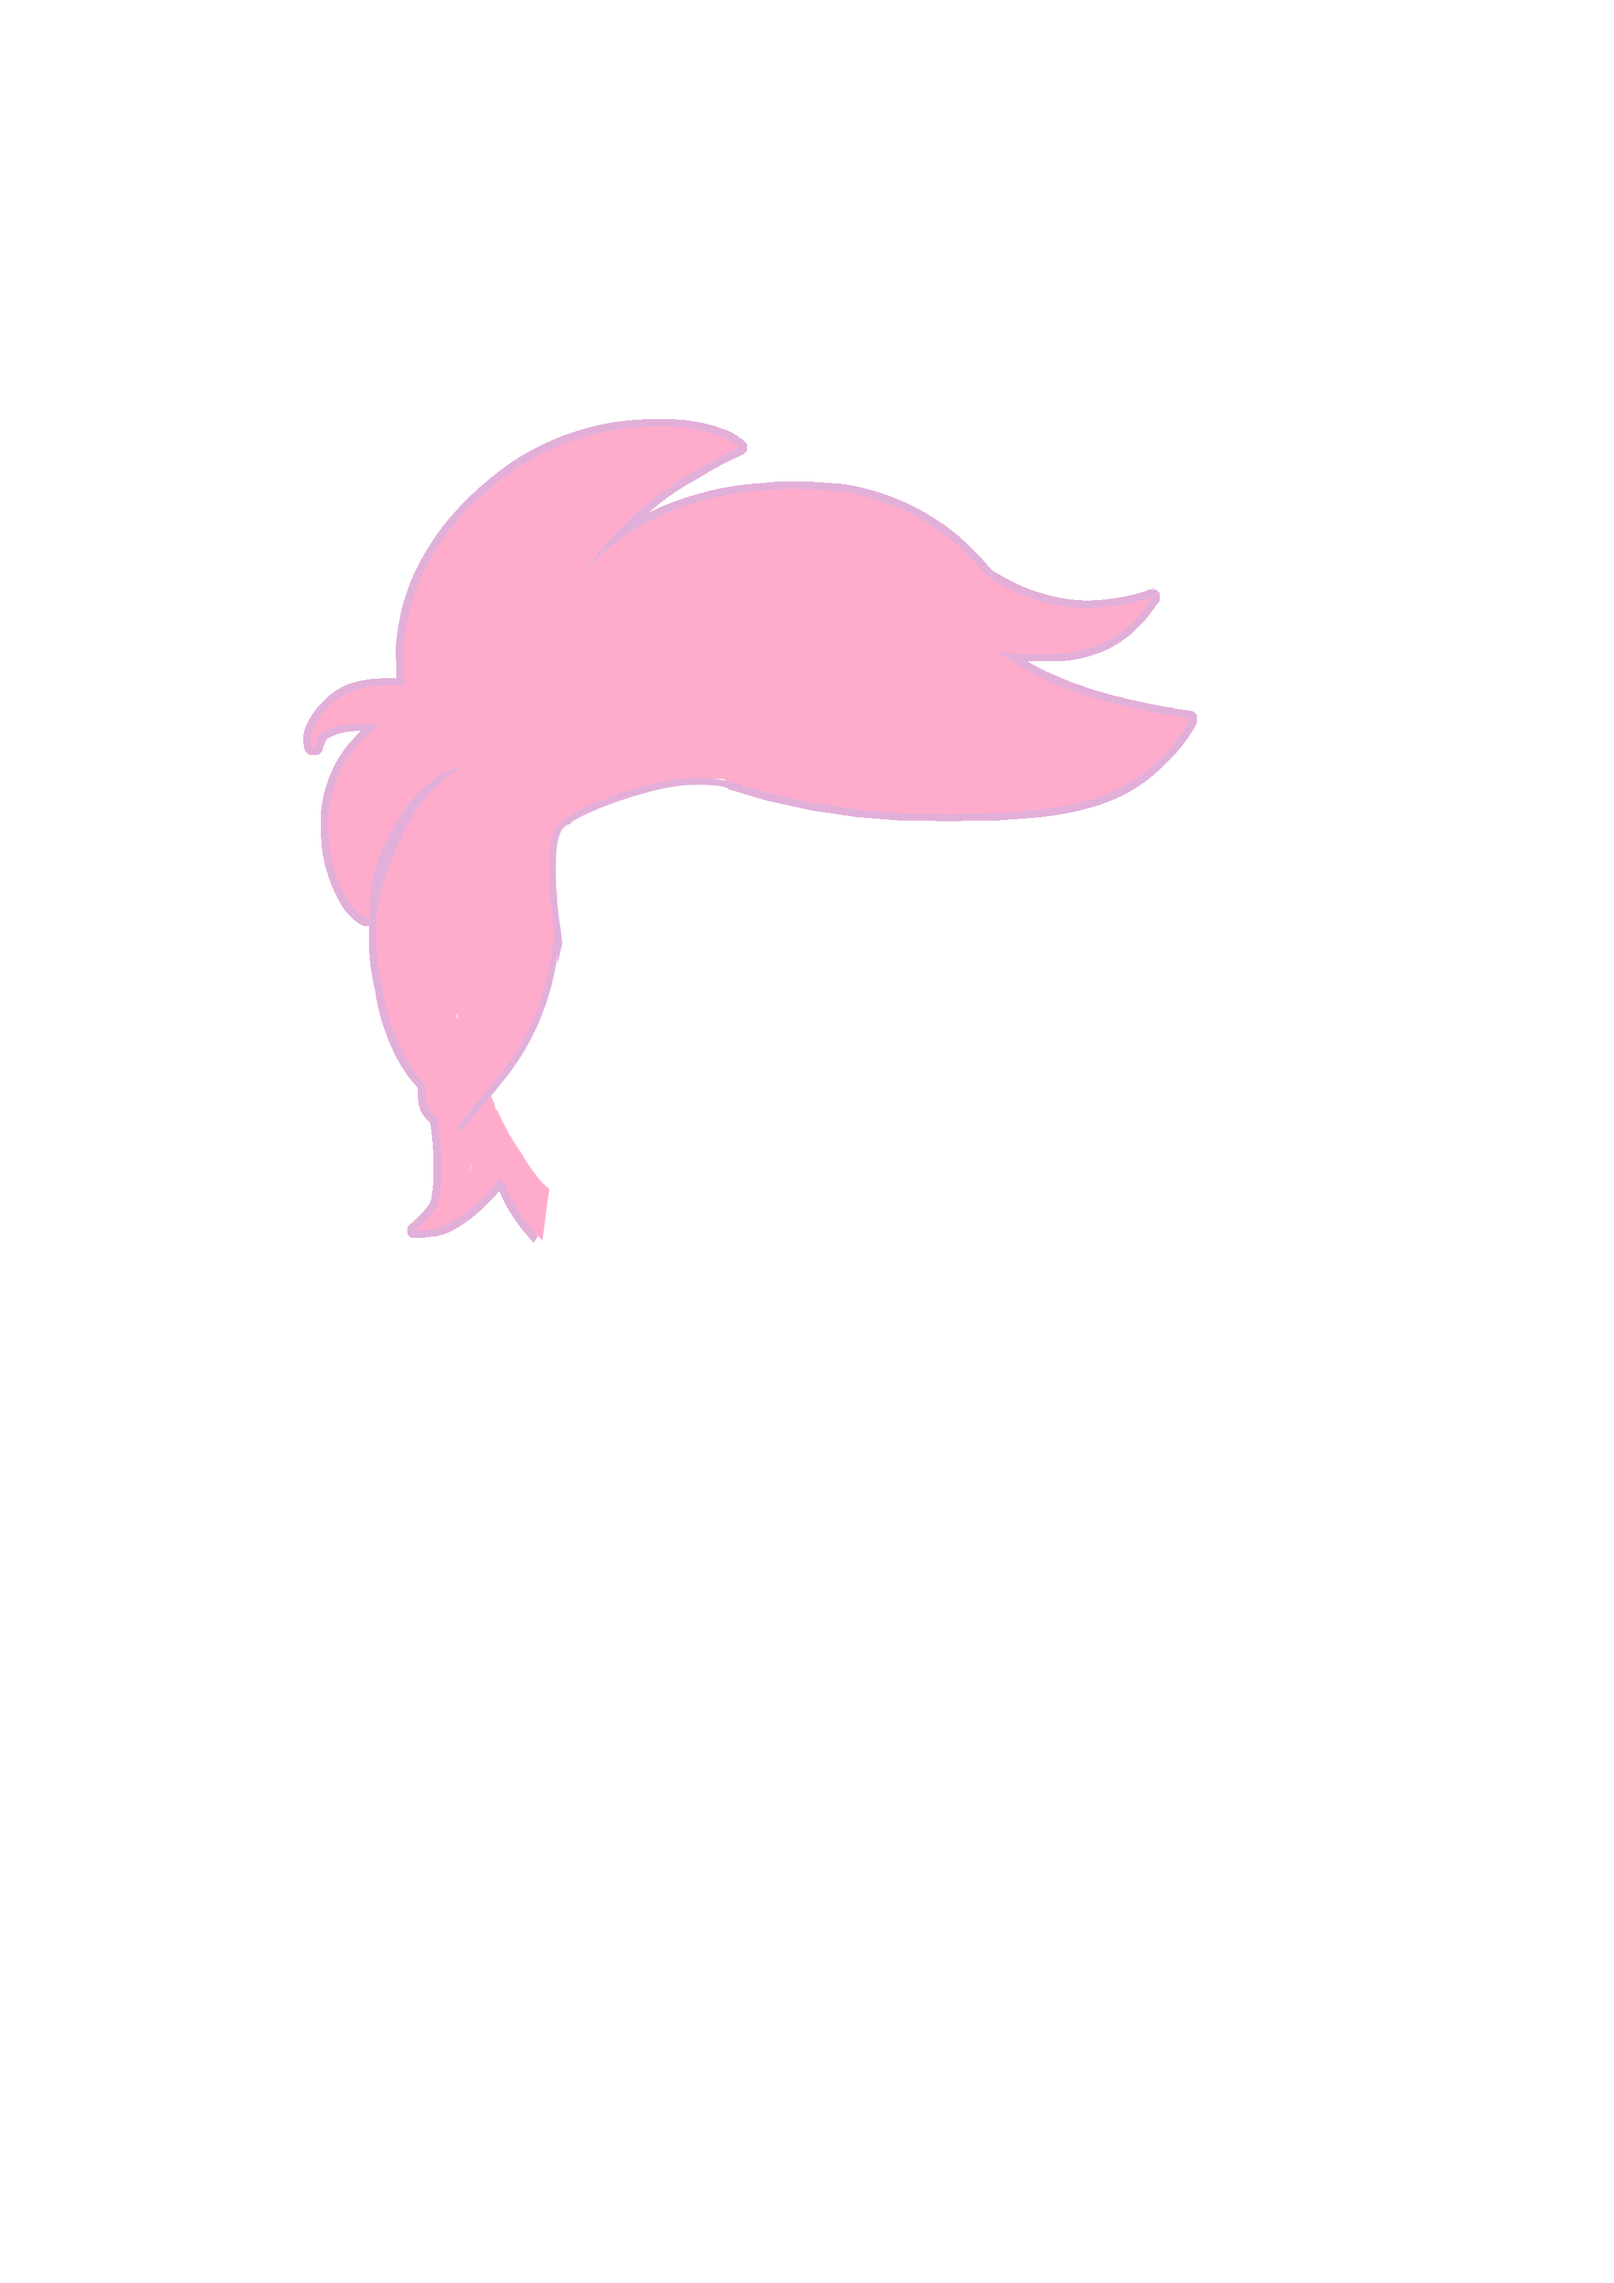
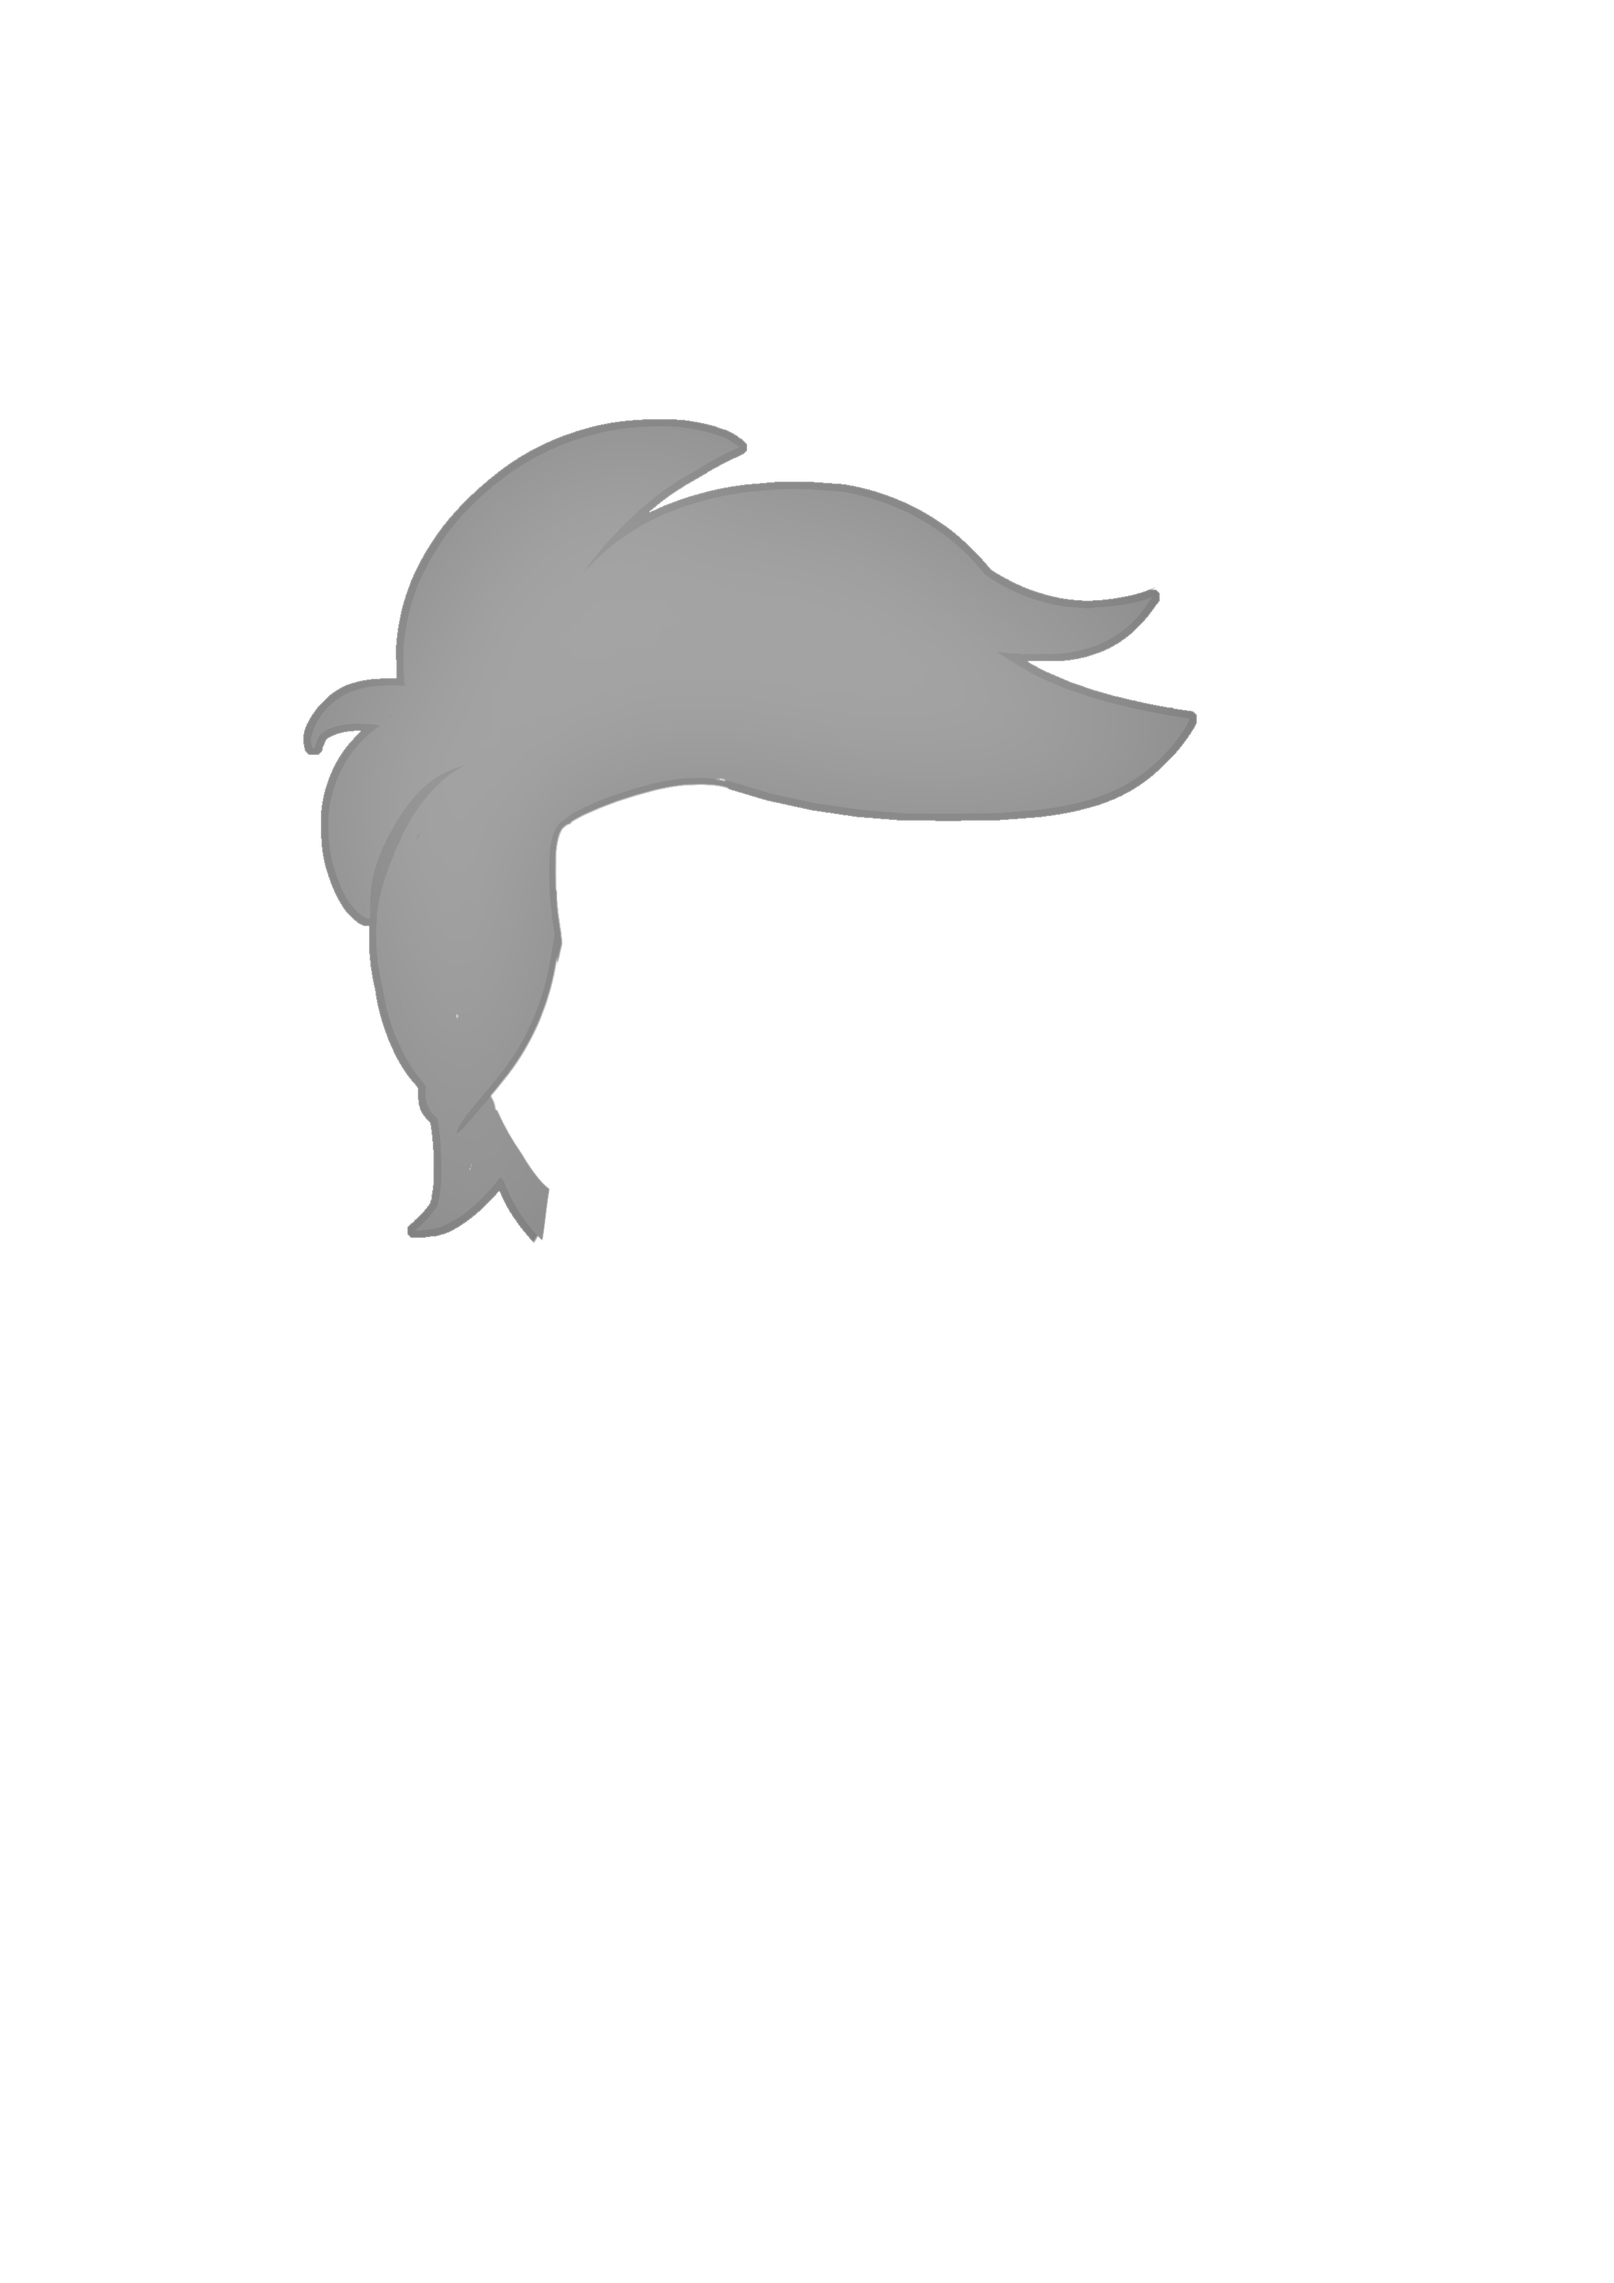
Character random colour generation

Changed region(s): [[0.1863, 0.1864, 0.7452, 0.5593]]

diff --git a/One Way Wellington/Assets/Models/Characters/Passenger.cs b/One Way Wellington/Assets/Models/Characters/Passenger.cs
@@ -12,13 +12,15 @@ public class Passenger : Character
     protected int fare;
 
     // Appearance 
-    protected int hair;
+    protected int hairStyle;
+    protected Color hairColor;
     public SpriteRenderer spriteRenderer_Hair;
 
     protected int skin;
     public SpriteRenderer spriteRenderer_Skin;
 
-    protected int pants;
+    protected int pantStyle;
+    protected Color pantColor;
     public SpriteRenderer spriteRenderer_Pants;
 
     protected int decal;
@@ -27,10 +29,11 @@ public class Passenger : Character
     protected int shades;
     public SpriteRenderer spriteRenderer_Shades;
 
-    protected int shirt;
+    protected int shirtStyle;
+    protected Color shirtColor;
     public SpriteRenderer spriteRenderer_Shirt;
 
-    protected int shoes;
+    protected int shoeStyle;
     public SpriteRenderer spriteRenderer_Shoes;
 
 
@@ -84,28 +87,40 @@ public class Passenger : Character
 
     }
 
-    public void SetPassengerInformation(string name, string occupation, string homePlanet, int fare, int hair, int skin, int decal, int shirt, int pants, int shoes, int shades)
+    public void SetPassengerInformation(string name, string occupation, string homePlanet, int fare, 
+        int hairStyle, Color hairColor, 
+        int skin, int decal, 
+        int shirtStyle, Color shirtColor, 
+        int pantStyle, Color pantColor, 
+        int shoeStyle, int shades)
     {
         this.name = name;
         this.occupation = occupation;
         this.homePlanet = homePlanet;
         this.fare = fare;
-        this.hair = hair;
+        this.hairStyle = hairStyle;
+        this.hairColor = hairColor;
         this.skin = skin;
         this.decal = decal;
-        this.shirt = shirt;
-        this.pants = pants;
-        this.shoes = shoes;
+        this.shirtStyle = shirtStyle;
+        this.shirtColor = shirtColor;
+        this.shirtColor = shirtColor;
+        this.pantStyle = pantStyle;
+        this.pantColor = pantColor;
+        this.shoeStyle = shoeStyle;
         this.shades = shades;
 
 
         // Load sprite resources 
-        spriteRenderer_Hair.sprite = Resources.Load<Sprite>("Images/Characters/Passengers/Hair/Hair" + hair.ToString());
+        spriteRenderer_Hair.sprite = Resources.Load<Sprite>("Images/Characters/Passengers/Hair/Hair" + hairStyle.ToString());
+        spriteRenderer_Hair.color = hairColor;
         spriteRenderer_Skin.sprite = Resources.Load<Sprite>("Images/Characters/Passengers/Skin/Skin" + skin.ToString());
         spriteRenderer_Decal.sprite = Resources.Load<Sprite>("Images/Characters/Passengers/Decal/Decal" + decal.ToString());
-        spriteRenderer_Shirt.sprite = Resources.Load<Sprite>("Images/Characters/Passengers/Shirt/Shirt" + shirt.ToString());
-        spriteRenderer_Pants.sprite = Resources.Load<Sprite>("Images/Characters/Passengers/Pants/Pants" + pants.ToString());
-        spriteRenderer_Shoes.sprite = Resources.Load<Sprite>("Images/Characters/Passengers/Shoes/Shoes" + shoes.ToString());
+        spriteRenderer_Shirt.sprite = Resources.Load<Sprite>("Images/Characters/Passengers/Shirt/Shirt" + shirtStyle.ToString());
+        spriteRenderer_Shirt.color = shirtColor;
+        spriteRenderer_Pants.sprite = Resources.Load<Sprite>("Images/Characters/Passengers/Pants/Pants" + pantStyle.ToString());
+        spriteRenderer_Pants.color = pantColor;
+        spriteRenderer_Shoes.sprite = Resources.Load<Sprite>("Images/Characters/Passengers/Shoes/Shoes" + shoeStyle.ToString());
         spriteRenderer_Shades.sprite = Resources.Load<Sprite>("Images/Characters/Passengers/Shades/Shades" + shades.ToString());
     }
 

diff --git a/One Way Wellington/Assets/Models/PotentialPassenger.cs b/One Way Wellington/Assets/Models/PotentialPassenger.cs
@@ -11,13 +11,37 @@ public class PotentialPassenger
     private string passengerLastName;
     private string occupation;
 
-    public int hair;
+    public int hairStyle;
+    public Color hairColor;
     public int skin;
-    public int pants;
+    public int pantStyle;
+    public Color pantColor;
     public int decal;
     public int shades;
-    public int shirt;
-    public int shoes;
+    public int shirtStyle;
+    public Color shirtColor;
+    public int shoeStyle;
+
+    private List<Color> hairColors = new List<Color>()
+    {
+        new Color(0.847f, 0.753f, 0.470f), new Color(0.89f, 0.8f,0.533f), new Color(0.949f,0.854f, 0.569f), new Color(0.949f, 0.882f, 0.682f), new Color(0.949f, 0.906f, 0.78f),
+        new Color(0.4f, 0.31f, 0.235f),new Color(0.549f,0.408f,0.29f ),new Color(0.2f, 0.165f, 0.1333f),
+        new Color(0.26f,0.14f,0.60f),new Color(0,0.53f, 0.81f),new Color(0.74f,0.13f,0.58f),new Color(0.96f,0.82f,0.08f),new Color(0.25f,0.64f,0.22f), new Color(0.92f,0.58f,0.12f),new Color(0.87f, 0.87f, 0.87f),
+        new Color(1,0.97f,0.78f),new Color(0.61f,0.58f,0.39f),new Color(),new Color(1,0.91f,0.78f),new Color(0.31f,0.27f,0.21f),
+        new Color(1,1,1), new Color(0.87f, 0.87f, 0.87f), new Color(0.5f,0.5f,0.5f), new Color(0.14f, 0.14f, 0.14f), new Color(0, 0, 0)
+    };
+    private List<Color> pantColors = new List<Color>() { Color.white };
+    private List<Color> shirtColors = new List<Color>
+    {
+        new Color(0.26f,0.14f,0.60f), new Color(0.42f,0.30f,0.78f), new Color(0.16f,0.03f,0.54f), new Color(0.08f,0.01f,0.27f),
+        new Color(0,0.53f, 0.81f), new Color(0.69f,0.89f,1), new Color(0.23f,0.73f,1), new Color(0,0.36f,0.55f), new Color(0,0.14f,0.21f),
+        new Color(0.74f,0.13f,0.58f), new Color(0.87f,0.11f,0.73f), new Color(0.46f,0,0.35f),new Color(0.23f,0,0.17f),
+        new Color(0.96f,0.82f,0.08f), new Color(1,0.89f,0.32f), new Color(0.74f,0.62f,0),
+        new Color(0.25f,0.64f,0.22f), new Color(0.68f,0.96f,0.67f), new Color(0.43f,0.79f,0.40f), new Color(0.05f,0.49f,0.01f), new Color(0.09f,0.31f,0.06f),
+        new Color(0.92f,0.58f,0.12f), new Color(1,0.69f,0.28f), new Color(0.74f,0.42f,0),
+        new Color(0.87f, 0.87f, 0.87f), new Color(0.5f,0.5f,0.5f), new Color(0.14f, 0.14f, 0.14f)
+    };
+
 
     // TODO: Reference to sprites used for passenger preview  
 
@@ -28,13 +52,16 @@ public class PotentialPassenger
         this.occupation = occupation;
 
         // Random generate appearance 
-        hair = Random.Range(0, 9);
+        hairStyle = Random.Range(0, 9);
+        hairColor = hairColors[Random.Range(0, hairColors.Count)];
         skin = Random.Range(1, 7);
-        pants = Random.Range(1, 2);
-        decal = Random.Range(0, 4);
-        shades = Random.Range(0, 5);
-        shirt = Random.Range(1, 1);
-        shoes = Random.Range(1, 2);
+        pantStyle = Random.Range(1, 2);
+        pantColor = pantColors[Random.Range(0, pantColors.Count)];
+        decal = Random.Range(0, 6);
+        shades = Random.Range(0, 8);
+        shirtStyle = Random.Range(1, 1);
+        shirtColor = shirtColors[Random.Range(0, shirtColors.Count)];
+        shoeStyle = Random.Range(1, 2);
     }
 
     public string GetPassengerFirstName()

diff --git a/One Way Wellington/Assets/Models/User Interface/PassengerListing.cs b/One Way Wellington/Assets/Models/User Interface/PassengerListing.cs
@@ -36,12 +36,15 @@ public class PassengerListing : MonoBehaviour
         text_PassengerFare.SetText("$" + (100 + distance * 5).ToString());
 
         // Load sprite resources 
-        hair.sprite = Resources.Load<Sprite>("Images/Characters/Passengers/Hair/Hair" + potentialPassenger.hair.ToString());
+        hair.sprite = Resources.Load<Sprite>("Images/Characters/Passengers/Hair/Hair" + potentialPassenger.hairStyle.ToString());
+        hair.color = potentialPassenger.hairColor;
         skin.sprite = Resources.Load<Sprite>("Images/Characters/Passengers/Skin/Skin" + potentialPassenger.skin.ToString());
         decal.sprite = Resources.Load<Sprite>("Images/Characters/Passengers/Decal/Decal" + potentialPassenger.decal.ToString());
-        shirt.sprite = Resources.Load<Sprite>("Images/Characters/Passengers/Shirt/Shirt" + potentialPassenger.shirt.ToString());
-        pants.sprite = Resources.Load<Sprite>("Images/Characters/Passengers/Pants/Pants" + potentialPassenger.pants.ToString());
-        shoes.sprite = Resources.Load<Sprite>("Images/Characters/Passengers/Shoes/Shoes" + potentialPassenger.shoes.ToString());
+        shirt.sprite = Resources.Load<Sprite>("Images/Characters/Passengers/Shirt/Shirt" + potentialPassenger.shirtStyle.ToString());
+        shirt.color = potentialPassenger.shirtColor;
+        pants.sprite = Resources.Load<Sprite>("Images/Characters/Passengers/Pants/Pants" + potentialPassenger.pantStyle.ToString());
+        pants.color = potentialPassenger.pantColor;
+        shoes.sprite = Resources.Load<Sprite>("Images/Characters/Passengers/Shoes/Shoes" + potentialPassenger.shoeStyle.ToString());
         shades.sprite = Resources.Load<Sprite>("Images/Characters/Passengers/Shades/Shades" + potentialPassenger.shades.ToString());
 
         if (hair.sprite == null) hair.color = Color.clear;

diff --git a/One Way Wellington/Assets/Models/Characters/Character.cs b/One Way Wellington/Assets/Models/Characters/Character.cs
@@ -365,7 +365,7 @@ public class Character : MonoBehaviour
     public void TakeDamage(float damage)
     {
         float startHealth = health;
-        Debug.Log("Taking damage: " + damage);
+        // Debug.Log("Taking damage: " + damage);
         health -= damage;
 
         if (health < 0)
@@ -407,7 +407,7 @@ public class Character : MonoBehaviour
                 {
                     delegate () { StartCoroutine(InputController.Instance.MoveCameraTo(currentX, currentY)); }
                 };
-                NotificationController.Instance.CreateNotification("Your " + gameObject.tag + ", '" + gameObject.name + "' is low on health!", UrgencyLevel.High, false, buttonTitles: new List<string>() { "Go to " + name}, buttonActions: actions);
+                NotificationController.Instance.CreateNotification("Your " + gameObject.tag + ", " + gameObject.name + " is low on health!", UrgencyLevel.High, false, buttonTitles: new List<string>() { "Go to " + name}, buttonActions: actions);
             }
         }
         

diff --git a/One Way Wellington/Assets/Models/User Interface/PlanetInterface.cs b/One Way Wellington/Assets/Models/User Interface/PlanetInterface.cs
@@ -104,12 +104,15 @@ public class PlanetInterface : MonoBehaviour
                 potentialPassenger.GetPassengerOccupation(),
                 planet.name,
                 (100 + distance * 5),
-                potentialPassenger.hair,
+                potentialPassenger.hairStyle,
+                potentialPassenger.hairColor,
                 potentialPassenger.skin,
                 potentialPassenger.decal,
-                potentialPassenger.shirt,
-                potentialPassenger.pants,
-                potentialPassenger.shoes,
+                potentialPassenger.shirtStyle,
+                potentialPassenger.shirtColor,
+                potentialPassenger.pantStyle,
+                potentialPassenger.pantColor,
+                potentialPassenger.shoeStyle,
                 potentialPassenger.shades);
 
             JourneyController.Instance.currentPassengers.Add(passengerGO);

diff --git a/One Way Wellington/Assets/Models/User Interface/PassengerInterface.cs b/One Way Wellington/Assets/Models/User Interface/PassengerInterface.cs
@@ -39,6 +39,7 @@ public class PassengerInterface : MonoBehaviour
         if (passenger == null)
         {
             Destroy(gameObject);
+            return;
         }
         transform.localScale = Vector3.Lerp(new Vector3(Camera.main.orthographicSize / 500, Camera.main.orthographicSize / 500, 1), transform.localScale, 0.9f);
         transform.localPosition = Vector3.Lerp(new Vector3(passenger.gameObject.transform.position.x + 0.5f + (Camera.main.orthographicSize / 2.75f), passenger.gameObject.transform.position.y + 0.35f, 0), transform.position, 0.9f);

diff --git a/One Way Wellington/Assets/Controllers/OxygenController.cs b/One Way Wellington/Assets/Controllers/OxygenController.cs
@@ -17,7 +17,7 @@ public class OxygenController : MonoBehaviour
     Queue<TileOWW> tilesToCheck;
     Dictionary<TileOWW, List<TileOWW>> oxygenTileGroups;
 
-	private static float OXYGEN_COST = 0.0585f;
+	private static float OXYGEN_COST = 0.00585f;
 
     private static readonly float VENT_FLOW = 20f; // Flow from Oxygen Vent per FixedUpdate 
 
